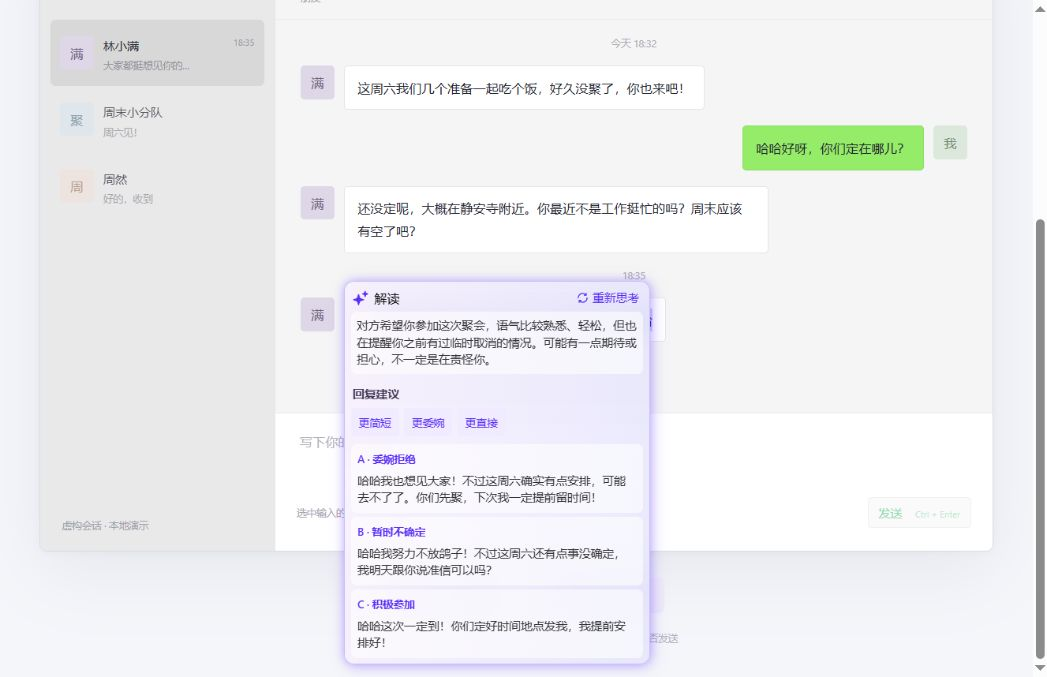
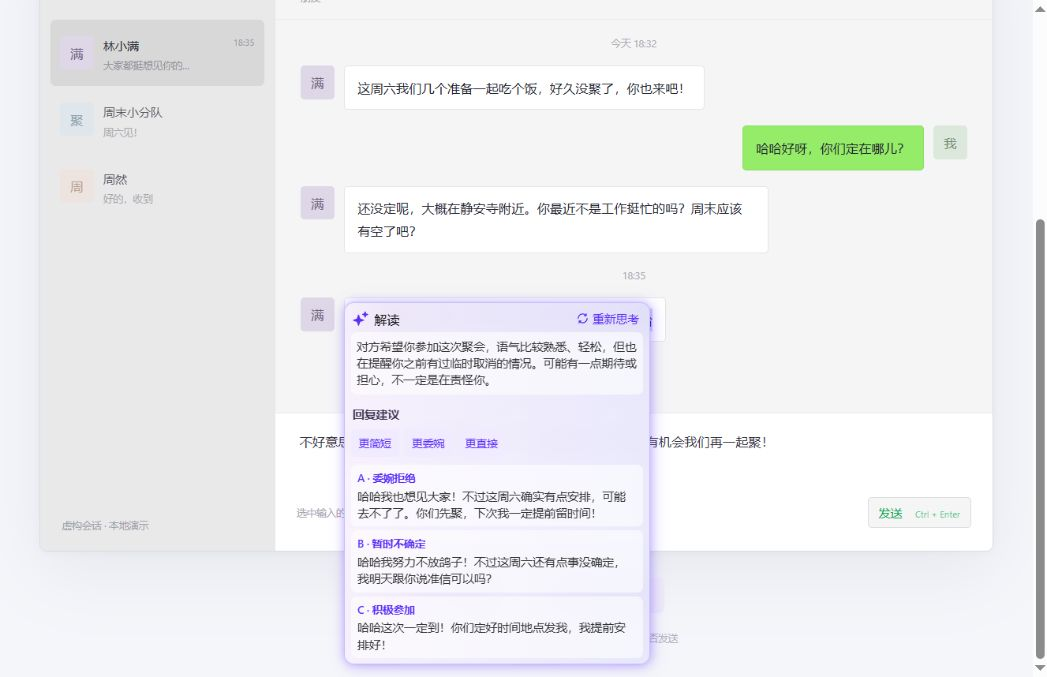
Refine expression variants and compact suggestion cards

Changed region(s): [[0.2751, 0.4032, 0.6418, 0.9616], [0.6113, 0.6204, 0.7335, 0.6824], [0.8252, 0.7445, 0.9169, 0.7755]]

diff --git a/src/styles.css b/src/styles.css
@@ -1,4 +1,4 @@
-:root{font-family:'Segoe UI Variable','Segoe UI','Microsoft YaHei UI',sans-serif;color:#242631;background:#f5f6fa;font-synthesis:none;--accent:#5a2dfc;--border:#c4c0fd;--shadow:0 0 8.3px #5a2dfc40,2px 2px 14.4px #5527fd40}*{box-sizing:border-box}body{margin:0}button,textarea{font:inherit}button{cursor:pointer}button:focus-visible,textarea:focus-visible,.selectable:focus-visible{outline:2px solid var(--accent);outline-offset:3px}button:disabled{cursor:default}button{border:0}p{margin:0}img{display:block;flex-shrink:0}.page-header{max-width:1200px;margin:auto;padding:28px 40px;display:flex;align-items:center;justify-content:space-between}.brand{display:flex;align-items:center;gap:10px;font-size:15px}.badge{font-size:10px;color:#79738d;background:#ece9f5;border:1px solid #e1dcec;padding:3px 7px;border-radius:4px}.quiet{background:transparent;color:#737480;font-size:12px;padding:8px}.quiet:hover{color:var(--accent)}main{max-width:1080px;margin:auto;padding:16px 40px 32px}.intro{text-align:center;margin-bottom:32px}.eyebrow{font-size:11px;letter-spacing:3px;color:#827b99}h1{font-weight:600;letter-spacing:-1px;font-size:32px;margin:10px 0 12px}.intro p{font-size:13px;color:#7c7c88}.window{height:578px;background:#fff;border:1px solid #d8dbe3;border-radius:8px;overflow:hidden;box-shadow:0 20px 70px #25284012,0 2px 8px #25284008}.titlebar{height:34px;background:#f1f2f6;border-bottom:1px solid #e2e4ea;display:flex;align-items:center;justify-content:space-between;padding:0 14px;font-size:11px;color:#767782}.app-dot{display:inline-block;width:8px;height:8px;border-radius:2px;background:#74658c;margin-right:6px}.window-chrome{font-size:13px;letter-spacing:5px;color:#62636d}.window-body{display:flex;height:calc(100% - 34px)}.contacts{width:238px;flex-shrink:0;background:#f7f8fa;border-right:1px solid #e5e6ec;position:relative;padding:0 10px}.contacts-title{height:66px;display:flex;align-items:center;justify-content:space-between;padding:0 12px;font-size:16px;font-weight:600}.contacts-title span{font-size:19px;font-weight:400;color:#888}.contact{display:flex;align-items:center;gap:10px;padding:14px 10px;border-radius:5px;position:relative}.contact.active{background:#e9e9f1}.contact strong{font-size:12px;font-weight:500}.contact p{font-size:10px;color:#92939c;margin-top:5px;white-space:nowrap}.contact time{font-size:9px;color:#9797a1;position:absolute;right:10px;top:17px}.avatar{display:flex;align-items:center;justify-content:center;width:34px;height:34px;border-radius:7px;background:#ddd7e8;color:#746787;font-size:13px;flex-shrink:0}.avatar.blue{background:#dce6ed;color:#6c8597}.avatar.peach{background:#efe2db;color:#a48473}.avatar.self{background:#dce8dc;color:#6c8a6f}.muted{opacity:.75}.local-note{position:absolute;bottom:19px;left:22px;font-size:10px;color:#a1a1ad}.chat{min-width:0;flex:1;display:flex;flex-direction:column}.chat-header{height:66px;display:flex;align-items:center;justify-content:space-between;padding:0 26px;border-bottom:1px solid #ececf0;flex-shrink:0}.chat-header strong{display:block;font-size:14px;font-weight:600}.chat-header div span{display:block;font-size:10px;color:#9999a5;margin-top:5px}.chat-header>span{color:#85838e}.messages{flex:1;min-height:0;overflow:auto;background:#fcfcfd;padding:22px 26px}.date{text-align:center;font-size:10px;color:#aaa9b3;margin-bottom:26px}.message{display:flex;align-items:flex-start;gap:10px;margin-bottom:22px}.message.outgoing{justify-content:flex-end}.bubble{font-size:13px;line-height:1.8;padding:10px 13px;border:1px solid #e9e8ed;background:white;border-radius:6px;max-width:360px;overflow-wrap:anywhere;white-space:pre-wrap}.outgoing .bubble{background:#e9efe6;border-color:#e1e8dd;max-width:360px}.sender{font-size:10px;color:#96949e;margin-bottom:6px}.selectable{user-select:text;cursor:text}.selectable::selection,textarea::selection{background:#d7d0fc;color:#292039}.selection-hint{font-size:11px;color:#b1aabf;text-align:center;margin-top:40px}.composer{height:140px;flex-shrink:0;border-top:1px solid #ececf0;padding:15px 22px 12px;background:#fff}textarea{width:100%;height:66px;border:0;resize:none;outline:none;background:transparent;color:#35323f;font-size:13px;line-height:1.7;padding:3px}textarea::placeholder{color:#b4b1bd}.composer-footer{display:flex;justify-content:space-between;align-items:center;font-size:10px;color:#aaa6b2}.composer-footer button{border:1px solid #dfdbe8;border-radius:4px;background:#f4f1fc;color:#655282;padding:7px 10px;font-size:12px}.composer-footer button span{font-size:9px;margin-left:10px;opacity:.6}.composer-footer button:disabled{opacity:.45}.composer-footer button:not(:disabled):hover{background:#e7dffc}.guide{display:flex;align-items:center;justify-content:center;gap:26px;margin-top:27px;font-size:11px;color:#8c8799}.guide b{font-size:10px;margin-right:7px;font-weight:500;color:#b3adbf}.guide i{font-style:normal;color:#ccc6d5}.demo-note{text-align:center;color:#b3afbd;font-size:10px;margin-top:19px}.ai-surface{position:fixed;z-index:10;border:1px solid var(--border);border-radius:10px;box-shadow:var(--shadow);backdrop-filter:blur(16px);animation:appear .14s ease-out;font-size:13px;letter-spacing:-.195px;color:#000e}.ai-surface[hidden]{display:none}.quick{width:84px;height:30px;background:#fbfbffcc;box-shadow:2px 2px 14.4px #5527fd40}.quick-action{width:100%;height:100%;display:flex;gap:4px;align-items:center;padding:4px;color:var(--accent);background:transparent;border-radius:9px;font-size:13px;white-space:nowrap}.quick-action:hover{background:#eae4ff}.toast{height:34px;padding:6px 12px 6px 6px;display:flex;gap:4px;align-items:center;white-space:nowrap;background:#fbfbffcc;color:var(--accent)}.spinner{animation:spin 1s linear infinite}.interpret-card,.expression-card{padding:6px;display:flex;flex-direction:column;gap:4px;background:linear-gradient(90deg,#f7f0fecc,#e6e5fdcc)}.interpret-card{width:267px;min-height:84px}.expression-card{width:280px;min-height:170px}.card-header{height:20px;display:flex;align-items:center;justify-content:space-between;flex-shrink:0}.card-title{display:flex;align-items:center;gap:4px;white-space:nowrap}.regenerate{display:flex;align-items:center;gap:4px;padding:0 4px;background:transparent;color:var(--accent);font-size:12px;letter-spacing:-.18px;border-radius:4px}.regenerate:hover{background:#ffffff80}.interpret-text,.suggestion{font-size:12px;letter-spacing:-.18px;line-height:17px;padding:6px;background:#fff9;border-radius:6px;color:#000c;text-align:left;margin:0}.interpret-text{min-height:46px}.suggestion{width:100%;min-height:32px;flex:1;border:1px solid transparent;transition:background .12s,border-color .12s}.suggestion:hover,.suggestion:focus-visible{background:#ffffffd9;border-color:#c4c0fd}.suggestion:active{background:#e1d9ff}.sr-only{position:absolute;width:1px;height:1px;padding:0;overflow:hidden;clip:rect(0,0,0,0);white-space:nowrap}@keyframes spin{to{transform:rotate(360deg)}}@keyframes appear{from{opacity:0;transform:translateY(3px)}to{opacity:1;transform:none}}@media(prefers-reduced-motion:reduce){*{animation:none!important;transition:none!important}}@media(max-width:760px){.contacts{display:none}.page-header{padding:20px}.badge{display:none}main{padding:10px 16px 20px}.intro{margin-bottom:22px}h1{font-size:26px}.intro p{line-height:1.8}.window{height:570px}.guide{gap:9px;font-size:10px}.guide b{display:none}.messages{padding:20px 16px}.composer-footer button span{display:none}.bubble{max-width:100%}.chat-header{padding:0 18px}}
+:root{font-family:'Segoe UI Variable','Segoe UI','Microsoft YaHei UI',sans-serif;color:#242631;background:#f5f6fa;font-synthesis:none;--accent:#5a2dfc;--border:#c4c0fd;--shadow:0 0 8.3px #5a2dfc40,2px 2px 14.4px #5527fd40}*{box-sizing:border-box}body{margin:0}button,textarea{font:inherit}button{cursor:pointer}button:focus-visible,textarea:focus-visible,.selectable:focus-visible{outline:2px solid var(--accent);outline-offset:3px}button:disabled{cursor:default}button{border:0}p{margin:0}img{display:block;flex-shrink:0}.page-header{max-width:1200px;margin:auto;padding:28px 40px;display:flex;align-items:center;justify-content:space-between}.brand{display:flex;align-items:center;gap:10px;font-size:15px}.badge{font-size:10px;color:#79738d;background:#ece9f5;border:1px solid #e1dcec;padding:3px 7px;border-radius:4px}.quiet{background:transparent;color:#737480;font-size:12px;padding:8px}.quiet:hover{color:var(--accent)}main{max-width:1080px;margin:auto;padding:16px 40px 32px}.intro{text-align:center;margin-bottom:32px}.eyebrow{font-size:11px;letter-spacing:3px;color:#827b99}h1{font-weight:600;letter-spacing:-1px;font-size:32px;margin:10px 0 12px}.intro p{font-size:13px;color:#7c7c88}.window{height:578px;background:#fff;border:1px solid #d8dbe3;border-radius:8px;overflow:hidden;box-shadow:0 20px 70px #25284012,0 2px 8px #25284008}.titlebar{height:34px;background:#f1f2f6;border-bottom:1px solid #e2e4ea;display:flex;align-items:center;justify-content:space-between;padding:0 14px;font-size:11px;color:#767782}.app-dot{display:inline-block;width:8px;height:8px;border-radius:2px;background:#74658c;margin-right:6px}.window-chrome{font-size:13px;letter-spacing:5px;color:#62636d}.window-body{display:flex;height:calc(100% - 34px)}.contacts{width:238px;flex-shrink:0;background:#f7f8fa;border-right:1px solid #e5e6ec;position:relative;padding:0 10px}.contacts-title{height:66px;display:flex;align-items:center;justify-content:space-between;padding:0 12px;font-size:16px;font-weight:600}.contacts-title span{font-size:19px;font-weight:400;color:#888}.contact{display:flex;align-items:center;gap:10px;padding:14px 10px;border-radius:5px;position:relative}.contact.active{background:#e9e9f1}.contact strong{font-size:12px;font-weight:500}.contact p{font-size:10px;color:#92939c;margin-top:5px;white-space:nowrap}.contact time{font-size:9px;color:#9797a1;position:absolute;right:10px;top:17px}.avatar{display:flex;align-items:center;justify-content:center;width:34px;height:34px;border-radius:7px;background:#ddd7e8;color:#746787;font-size:13px;flex-shrink:0}.avatar.blue{background:#dce6ed;color:#6c8597}.avatar.peach{background:#efe2db;color:#a48473}.avatar.self{background:#dce8dc;color:#6c8a6f}.muted{opacity:.75}.local-note{position:absolute;bottom:19px;left:22px;font-size:10px;color:#a1a1ad}.chat{min-width:0;flex:1;display:flex;flex-direction:column}.chat-header{height:66px;display:flex;align-items:center;justify-content:space-between;padding:0 26px;border-bottom:1px solid #ececf0;flex-shrink:0}.chat-header strong{display:block;font-size:14px;font-weight:600}.chat-header div span{display:block;font-size:10px;color:#9999a5;margin-top:5px}.chat-header>span{color:#85838e}.messages{flex:1;min-height:0;overflow:auto;background:#fcfcfd;padding:22px 26px}.date{text-align:center;font-size:10px;color:#aaa9b3;margin-bottom:26px}.message{display:flex;align-items:flex-start;gap:10px;margin-bottom:22px}.message.outgoing{justify-content:flex-end}.bubble{font-size:13px;line-height:1.8;padding:10px 13px;border:1px solid #e9e8ed;background:white;border-radius:6px;max-width:360px;overflow-wrap:anywhere;white-space:pre-wrap}.outgoing .bubble{background:#e9efe6;border-color:#e1e8dd;max-width:360px}.sender{font-size:10px;color:#96949e;margin-bottom:6px}.selectable{user-select:text;cursor:text}.selectable::selection,textarea::selection{background:#d7d0fc;color:#292039}.selection-hint{font-size:11px;color:#b1aabf;text-align:center;margin-top:40px}.composer{height:140px;flex-shrink:0;border-top:1px solid #ececf0;padding:15px 22px 12px;background:#fff}textarea{width:100%;height:66px;border:0;resize:none;outline:none;background:transparent;color:#35323f;font-size:13px;line-height:1.7;padding:3px}textarea::placeholder{color:#b4b1bd}.composer-footer{display:flex;justify-content:space-between;align-items:center;font-size:10px;color:#aaa6b2}.composer-footer button{border:1px solid #dfdbe8;border-radius:4px;background:#f4f1fc;color:#655282;padding:7px 10px;font-size:12px}.composer-footer button span{font-size:9px;margin-left:10px;opacity:.6}.composer-footer button:disabled{opacity:.45}.composer-footer button:not(:disabled):hover{background:#e7dffc}.guide{display:flex;align-items:center;justify-content:center;gap:26px;margin-top:27px;font-size:11px;color:#8c8799}.guide b{font-size:10px;margin-right:7px;font-weight:500;color:#b3adbf}.guide i{font-style:normal;color:#ccc6d5}.demo-note{text-align:center;color:#b3afbd;font-size:10px;margin-top:19px}.ai-surface{position:fixed;z-index:10;border:1px solid var(--border);border-radius:10px;box-shadow:var(--shadow);backdrop-filter:blur(16px);animation:appear .14s ease-out;font-size:13px;letter-spacing:-.195px;color:#000e}.ai-surface[hidden]{display:none}.quick{width:84px;height:30px;background:#fbfbffcc;box-shadow:2px 2px 14.4px #5527fd40}.quick-action{width:100%;height:100%;display:flex;gap:4px;align-items:center;padding:4px;color:var(--accent);background:transparent;border-radius:9px;font-size:13px;white-space:nowrap}.quick-action:hover{background:#eae4ff}.toast{height:34px;padding:6px 12px 6px 6px;display:flex;gap:4px;align-items:center;white-space:nowrap;background:#fbfbffcc;color:var(--accent)}.spinner{animation:spin 1s linear infinite}.interpret-card,.expression-card{padding:6px;display:flex;flex-direction:column;gap:4px;background:linear-gradient(90deg,#f7f0fecc,#e6e5fdcc)}.interpret-card{width:267px;min-height:84px}.expression-card{width:280px}.card-header{height:20px;display:flex;align-items:center;justify-content:space-between;flex-shrink:0}.card-title{display:flex;align-items:center;gap:4px;white-space:nowrap}.regenerate{display:flex;align-items:center;gap:4px;padding:0 4px;background:transparent;color:var(--accent);font-size:12px;letter-spacing:-.18px;border-radius:4px}.regenerate:hover{background:#ffffff80}.interpret-text,.suggestion{font-size:12px;letter-spacing:-.18px;line-height:17px;padding:6px;background:#fff9;border-radius:6px;color:#000c;text-align:left;margin:0}.interpret-text{min-height:46px}.suggestion{width:100%;min-height:40px;flex:0 0 auto;padding:4px 6px;border:1px solid transparent;transition:background .12s,border-color .12s}.suggestion:hover,.suggestion:focus-visible{background:#ffffffd9;border-color:#c4c0fd}.suggestion:active{background:#e1d9ff}.sr-only{position:absolute;width:1px;height:1px;padding:0;overflow:hidden;clip:rect(0,0,0,0);white-space:nowrap}@keyframes spin{to{transform:rotate(360deg)}}@keyframes appear{from{opacity:0;transform:translateY(3px)}to{opacity:1;transform:none}}@media(prefers-reduced-motion:reduce){*{animation:none!important;transition:none!important}}@media(max-width:760px){.contacts{display:none}.page-header{padding:20px}.badge{display:none}main{padding:10px 16px 20px}.intro{margin-bottom:22px}h1{font-size:26px}.intro p{line-height:1.8}.window{height:570px}.guide{gap:9px;font-size:10px}.guide b{display:none}.messages{padding:20px 16px}.composer-footer button span{display:none}.bubble{max-width:100%}.chat-header{padding:0 18px}}
 .desktop-controls{height:34px;position:sticky;top:0;z-index:100;display:flex;align-items:center;background:#f0f1f5;border-bottom:1px solid #dddfe7;color:#5f6070;-webkit-app-region:drag;user-select:none}
 .desktop-controls[hidden]{display:none}.desktop-drag{height:100%;flex:1;display:flex;align-items:center;gap:7px;padding-left:12px;font-size:11px}.desktop-drag img{width:16px;height:16px}.desktop-controls button{-webkit-app-region:no-drag;height:33px;min-width:46px;padding:0 12px;background:transparent;color:#656676;font-size:11px}.desktop-controls button:hover{background:#e1e2e9}.desktop-controls #hide-window:hover{background:#c42b1c;color:#fff}.desktop-controls #toggle-top[aria-pressed=true]{color:var(--accent);background:#ebe7ff}.desktop-app .page-header{padding-top:18px}
 /* AI action menu and analysis outline, Figma 35:6589. */
@@ -19,6 +19,6 @@
 .chat.analyzing::before{content:'';position:absolute;inset:0;z-index:1;pointer-events:none;border-radius:0 10px 10px 0;mix-blend-mode:soft-light;background:linear-gradient(140.318deg,#5a2dfc 31.245%,#eae4ff66 34.54%,#5a2dfc 97.993%)}
 .chat{background:#fff}
 /* Portfolio scene: familiar WeChat colors with the existing SnkMessage surfaces. */
-.window{height:640px}.app-dot{background:#07c160}.titlebar{background:#ededed}.contacts{background:#e9e9e9}.contact.active{background:#d8d8d8}.chat-header{background:#f5f5f5}.messages{background:#f5f5f5;padding:18px 26px}.date{margin-bottom:16px}.message{margin-bottom:16px}.bubble{max-width:430px;border-color:#e5e5e5;border-radius:4px}.outgoing .bubble{background:#95ec69;border-color:#8cdd64}.avatar{border-radius:4px}.composer-footer button{background:#f5f5f5;color:#07a64b;border-color:#ddd}.composer-footer button:not(:disabled):hover{background:#e6f5e8}.guide button{background:#eeeaf8;color:#655282;border-radius:6px;padding:10px 16px;font-size:12px}.guide button:hover{background:#e1d9f5}.suggestion-label{display:block;color:var(--accent);font-size:11px;font-weight:600;margin-bottom:5px}.interpret-card{width:310px}.expression-card{width:340px}.recording .intro,.recording .guide,.recording .demo-note,.recording .badge{display:none}.recording main{max-width:1180px;padding-top:6px}.recording .page-header{max-width:1180px;padding-top:14px;padding-bottom:14px}.recording .window{height:calc(100vh - 90px);min-height:560px}.recording.desktop-app .window{height:calc(100vh - 124px)}.recording #recording{opacity:0}.recording #recording:hover,.recording #recording:focus-visible{opacity:1}@media(max-width:760px){.expression-card{width:min(340px,calc(100vw - 24px))}.guide{gap:6px}.guide button{padding:9px 8px;font-size:11px}.window{height:640px}.recording .window{min-height:560px}}
+.window{height:640px}.app-dot{background:#07c160}.titlebar{background:#ededed}.contacts{background:#e9e9e9}.contact.active{background:#d8d8d8}.chat-header{background:#f5f5f5}.messages{background:#f5f5f5;padding:18px 26px}.date{margin-bottom:16px}.message{margin-bottom:16px}.bubble{max-width:430px;border-color:#e5e5e5;border-radius:4px}.outgoing .bubble{background:#95ec69;border-color:#8cdd64}.avatar{border-radius:4px}.composer-footer button{background:#f5f5f5;color:#07a64b;border-color:#ddd}.composer-footer button:not(:disabled):hover{background:#e6f5e8}.guide button{background:#eeeaf8;color:#655282;border-radius:6px;padding:10px 16px;font-size:12px}.guide button:hover{background:#e1d9f5}.suggestion-label{display:block;color:var(--accent);font-size:11px;font-weight:600;line-height:17px;margin-bottom:2px}.interpret-card{width:310px}.expression-card{width:310px}.recording .intro,.recording .guide,.recording .demo-note,.recording .badge{display:none}.recording main{max-width:1180px;padding-top:6px}.recording .page-header{max-width:1180px;padding-top:14px;padding-bottom:14px}.recording .window{height:calc(100vh - 90px);min-height:560px}.recording.desktop-app .window{height:calc(100vh - 124px)}.recording #recording{opacity:0}.recording #recording:hover,.recording #recording:focus-visible{opacity:1}@media(max-width:760px){.interpret-card,.expression-card{width:min(310px,calc(100vw - 24px))}.guide{gap:6px}.guide button{padding:9px 8px;font-size:11px}.window{height:640px}.recording .window{min-height:560px}}
 /* Match the native result flow: interpretation, reveal, then reply adjustments. */
 .reveal-suggestions{background:#eee8ff;color:var(--accent);font-size:12px;font-weight:600;padding:9px;border-radius:6px;margin-top:4px}.reveal-suggestions:hover{background:#e1d8ff}.suggestion-heading{font-size:12px;font-weight:600;color:#433956;margin:8px 2px 3px}.adjustments{display:flex;gap:5px;margin-bottom:4px}.adjustment{background:#f0ebff;color:var(--accent);font-size:11px;padding:7px 8px;border-radius:4px}.adjustment:hover{background:#e2d8ff}.interpret-card,.expression-card{max-height:calc(100vh - 24px);overflow-y:auto}

diff --git a/src/ai.js b/src/ai.js
@@ -24,7 +24,7 @@ export const ai = {
  },
  async express({selectedText}) {
   await delay();
-  if (/周六不想去|你们自己去/.test(selectedText)) return {suggestionLabels:['更委婉','更简洁','更亲近'],suggestions:['不好意思呀，这周六我想在家休息一下，最近确实有点累。你们玩得开心，下次有机会我们再一起聚！','这周六我想休息一下，就先不去了。你们玩得开心，我们下次再约！','哈哈这次我想给自己放个假，在家充充电。你们好好聚，下次我再一起！']};
+  if (/周六不想去|你们自己去/.test(selectedText)) return {suggestionLabels:['更简短','更委婉','更直接'],suggestions:['周六我就不去了，你们玩得开心！','不好意思呀，这周六我想在家休息一下。你们玩得开心，下次有机会我们再一起聚！','这周六我不参加聚会了，想留点时间给自己。你们按原计划聚就好。']};
   if (/不认同|不赞同/.test(selectedText)) return {suggestions:['我有不同的看法，想先了解具体问题。','对此我有些保留，能否先明确问题所在？','我暂时不太认同，希望先把具体问题讨论清楚。']};
   // For other input preserve the user's wording; never invent a stance in this mock.
   const text=selectedText.trim().replace(/[。！？?！]+$/u,'');

diff --git a/RECORDING.md b/RECORDING.md
@@ -14,7 +14,7 @@
 
 1. 展示聊天 3–5 秒，拖动选中「大家都挺想见你的，你可别又临时放我们鸽子哈哈哈」，点击浮出的「解读」。停留 6–8 秒，让观众读完结果。
 2. 在解读窗口内点击「生成回复建议」，同一窗口保留解读并展开三条建议，无需重新选中消息或切换菜单。停留 6–8 秒，展示委婉拒绝 / 暂时不确定 / 积极参加三种方向。可点击上方「更委婉」（或「更简短 / 更直接」）重新生成建议；与原生版本一致，调整后进入回复建议窗口。点击任一建议填入草稿，仍需手动发送。
-3. 将输入框改成「我周六不想去了，你们自己去吧。」，在输入框按 Ctrl+A，再点击「表达优化」。展示结果后点击「更委婉」，停留几秒。最后可手动点击发送，结束演示。
+3. 将输入框改成「我周六不想去了，你们自己去吧。」，在输入框按 Ctrl+A，再点击「表达优化」。窗口按「更简短 / 更委婉 / 更直接」依次展示三条表达建议；点击第二条「更委婉」填入草稿，停留几秒。最后可手动点击发送，结束演示。
 
 非录制视图下，底部两个准备按钮可直接准备消息选区或原始草稿；按钮仅准备工具条，不会自动生成或发送。每次生成约 0.85 秒，解读中已预先包含三条回复，点击「生成回复建议」即展开。可点击「重新思考」重复展示。
 
